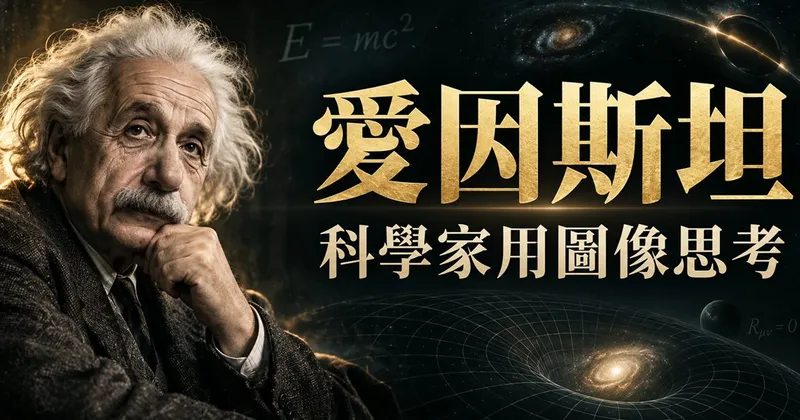
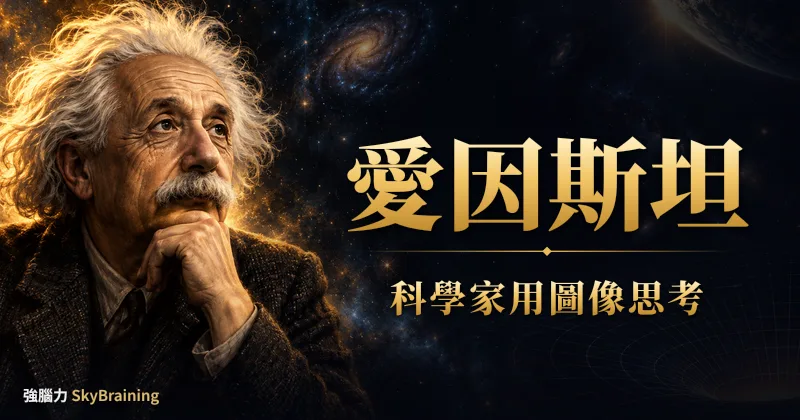
愛因斯坦封面改繁體（Q221）

diff --git a/article-master-einstein.html b/article-master-einstein.html
@@ -157,7 +157,7 @@
   <div class="hero">
     <div class="crumb sr-only"><a href="index.html">首頁</a> ／ <a href="articles.html">學習力文章</a> ／ <a href="mindmap.html">心智圖</a></div>
     <h1 class="sr-only">愛因斯坦說<br>他思考的時候幾乎不用文字</h1>
-    <figure class="banner"><img src="img-master-banner-einstein.jpg" srcset="img-master-banner-einstein-800.jpg 800w, img-master-banner-einstein.jpg 1600w" sizes="(max-width:760px) 100vw, 760px" width="1600" height="800" alt="愛因斯坦：科學家用圖像思考" fetchpriority="high"></figure>
+    <figure class="banner"><img src="cover-master-einstein.webp" srcset="card-master-einstein.webp 800w, cover-master-einstein.webp 1600w" sizes="(max-width:760px) 100vw, 760px" width="1600" height="840" alt="愛因斯坦：科學家用圖像思考" fetchpriority="high"></figure>
     <div class="meta"><span>強腦力 SkyBraining 編輯部</span><span>・</span><span>2026.07.16</span><span>・</span><span>閱讀約 6 分鐘</span></div>
     <p class="lede">先問你一題：<strong>你在思考的時候，腦中到底出現什麼？</strong>是一句一句的字，還是一個畫面？1940 年代，法國數學家<strong>阿達瑪</strong>（Jacques Hadamard）就拿這個很少人問的問題，發問卷給當時最頂尖的科學家。愛因斯坦的回覆後來被收進阿達瑪 1945 年的書裡，答案可能會讓你意外。</p>
   </div>

diff --git a/articles.html b/articles.html
@@ -559,7 +559,7 @@
     </a>
 
     <a class="card" href="article-master-einstein.html">
-      <img class="cbanner" src="img-master-banner-einstein-800.jpg" srcset="img-master-banner-einstein-800.jpg 800w, img-master-banner-einstein.jpg 1600w" sizes="(max-width:760px) 100vw, 380px" width="800" height="400" alt="愛因斯坦" loading="lazy">
+      <img class="cbanner" src="card-master-einstein.webp" srcset="card-master-einstein.webp 800w, cover-master-einstein.webp 1600w" sizes="(max-width:760px) 100vw, 380px" width="800" height="420" alt="愛因斯坦" loading="lazy">
       <div class="cbody">
         <div class="ctitle">愛因斯坦說：他思考的時候，幾乎不用文字</div>
         <div class="cdesc">愛因斯坦回覆問卷說：他思考時出現的不是文字，是畫面。</div>
